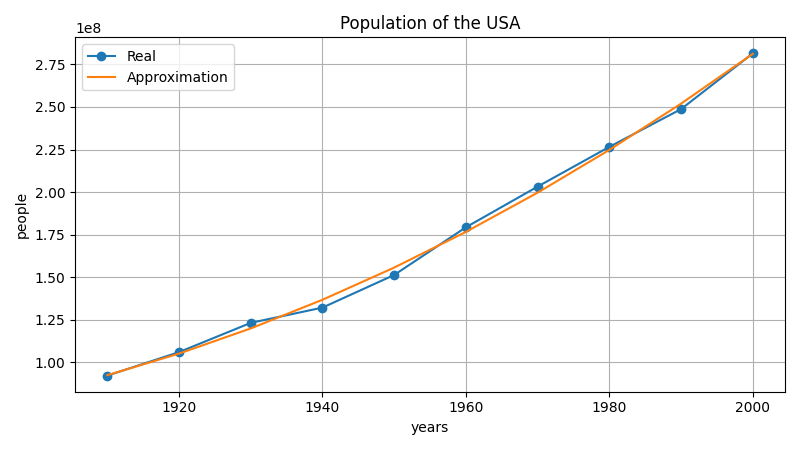
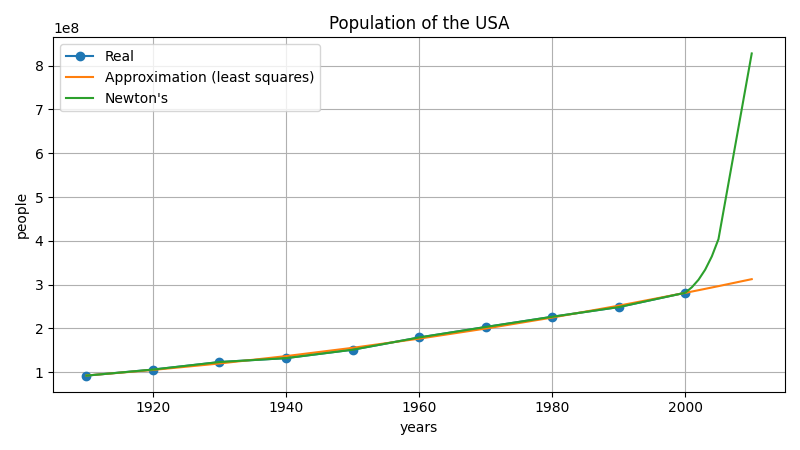
Lab4
Added new methods as spline and Newton's.

diff --git a/lab4/main.py b/lab4/main.py
@@ -1,13 +1,8 @@
 
 import matplotlib.pyplot as plt
 import numpy as np
-
-years = np.array([ 1910 + ind*10 for ind in range(0, 10)])
-stat = np.array([ 92228496, 106021537, 123202624, 
-         132164569, 151325798, 179323175,
-         203211926, 226545805, 248709873,
-         281421906 ])
-
+from newton import *
+from spline import *
 
 def summarize_degree(x, degree):
     sum = np.sum(x**degree)
@@ -21,7 +16,7 @@ def solve_equation(coeff: dict):
                   [coeff['y_2'], coeff['y_1'], coeff['y_0']]])
     f2 = np.array([coeff['yx_2'], coeff['yx'], coeff['y']])
     response = np.linalg.solve(f1, f2)
-    print(response)
+    # print(response)
     return response
 
 def create_system(years, stat):
@@ -35,27 +30,100 @@ def create_system(years, stat):
     y = np.sum(stat)
     return {'y_4':y_4, 'y_3':y_3, 'y_2':y_2, 'y_1':y_1, 'y_0':y_0, 'yx_2':yx_2, 'yx':yx, 'y':y}
 
-def create_plot(x, y, y1):
+def create_plot(country: str, x, y):
     plt.figure(figsize=(16/2,9/2))
     
-    plt.title('Population of the USA')
+    plt.title('Population of ' + country)
     plt.xlabel('years')
     plt.ylabel('people')
-    plt.plot(x, y, marker='o')
-    plt.plot(x, y1)
-    plt.legend(['Real', 'Approximation'])
+    
+    plt.plot(x[0], y[0], marker='o')
+    plt.plot(x[1], y[1])
+    plt.plot(x[2], y[2])
+    
+    plt.legend(['Real', 'Approximation (least squares)', "Newton's"])
     plt.grid()
     plt.tight_layout()
     
     plt.show()
 
+def spline_plot(country, years_ranges: list, stats_ranges: list, years, stats):
+    plt.figure(figsize=(16/2,9/2))
+    
+    plt.title('Population of ' + country)
+    plt.xlabel('years')
+    plt.ylabel('people')
+
+    plt.plot(years, stats, marker='o')
+    for ind in range(len(years_ranges)):
+        plt.plot(years_ranges[ind], stats_ranges[ind], linewidth=2, color='limegreen')
+    
+    plt.legend(['Real', 'Splines'])
+    plt.grid()
+    plt.tight_layout()
+    
+    plt.show()
+
+
 if __name__ == '__main__':
-    param = create_system(years, stat)
-    response = solve_equation(param)
-    response = list(response)
-    approximation = [response[0]*year**2 + response[1]*year + response[2] for year in years]
-    create_plot(years, stat, approximation)
-    print('in 2010:{}'.format(response[0]*2010**2 + response[1]*2010 + response[2]))
+    years_usa = np.array([ 1910 + ind*10 for ind in range(0, 10)])
+    stat_usa  = np.array([ 92228496, 106021537, 123202624, 
+                 132164569, 151325798, 179323175,
+                 203211926, 226545805, 248709873,
+                 281421906 ])
+
+
+    def main(years, stat, country):
+        param = create_system(years, stat)
+        response = solve_equation(param)
+        response = list(response)
+        scaled_years = list(years) + [2001, 2002, 2003, 2004, 2005, 2010]
+        approximation = [response[0]*year**2 + response[1]*year + response[2] for year in scaled_years]
+        spline_scaling = range(years_usa[-1], 2010, 1) 
+
+        print('By least squares in 2010: {}'.format(int(response[0]*2010**2 + response[1]*2010 + response[2])))
+        print("By Newton's in 2010: {}".format(int(calculate_polynomial(years, diff_table(years, stat), 2010))))
+
+        x = []; x.append(years); x.append(scaled_years); x.append(scaled_years)
+        y = []; y.append(stat); y.append(approximation); y.append([calculate_polynomial(years, diff_table(years, stat), y) for y in scaled_years])
+        
+        create_plot(country, x, y)
+        # create_plot(country, years, stat, scaled_years, approximation, scaled_years, [calculate_polynomial(years, diff_table(years, stat), y) for y in scaled_years])
+
+
+    def spline(years, stat, country):
+        b, c, d = cubic_spline(years, stat)
+        b = list(b)
+        c = list(c)
+        d = list(d)
+        years_ranges = []
+        stats_ranges = []
+
+        for ind in range(len(years) - 1):
+                ls = []
+                for y in range(years[ind], years[ind+1] + 1, 1):
+                    ls.append(stat[ind] + b[ind]*(y - years[ind]) + c[ind]*(y - years[ind])**2 + d[ind]*(y - years[ind])**3)
+                    years_ranges.append(range(years[ind], years[ind+1] + 1, 1))
+                    stats_ranges.append(ls)
+
+        scaling_point = years[-1]
+        years_ranges.append(list(range(scaling_point, 2011, 1)))
+
+        stats_ranges.append(
+            [stat[-1] + b[-1]*(y - scaling_point) + c[-1]*(y - scaling_point)**2 + d[-1]*(y - scaling_point)**3 
+            for y in range(scaling_point, 2011, 1)]
+        )
+
+        print('By spline in 2010: {}'.format(int(stats_ranges[-1][-1])))
+        spline_plot(country, years_ranges, stats_ranges, years, stat)
+
+
+    def start(years, stat, country):
+        main(years, stat, country)
+        spline(years, stat, country)
+    
+    start(years_usa, stat_usa, 'the USA')
+
 
     
 

diff --git a/lab4/spline.py b/lab4/spline.py
@@ -1,0 +1,86 @@
+
+import pandas as pd
+import numpy as np
+
+def jacobi(A, b, x0, tol, n_iterations=300):
+    """
+    Performs Jacobi iterations to solve the line system of
+    equations, Ax=b, starting from an initial guess, ``x0``.
+    
+    Returns:
+    x, the estimated solution
+    """
+    
+    n = A.shape[0]
+    x = x0.copy()
+    x_prev = x0.copy()
+    counter = 0
+    x_diff = tol+1
+    
+    while (x_diff > tol) and (counter < n_iterations): #iteration level
+        for i in range(0, n): #element wise level for x
+            s = 0
+            for j in range(0,n): #summation for i !=j
+                if i != j:
+                    s += A[i,j] * x_prev[j] 
+            
+            x[i] = (b[i] - s) / A[i,i]
+        #update values
+        counter += 1
+        x_diff = (np.sum((x-x_prev)**2))**0.5 
+        x_prev = x.copy() #use new x for next iteration
+        
+    
+    # print("Number of Iterations: ", counter)
+    # print("Norm of Difference: ", x_diff)
+    return x
+
+
+def cubic_spline(x, y, tol = 1e-100):
+    """
+    Interpolate using natural cubic splines.
+    
+    Generates a strictly diagonal dominant matrix then applies Jacobi's method.
+    
+    Returns coefficients:
+    b, coefficient of x of degree 1
+    c, coefficient of x of degree 2
+    d, coefficient of x of degree 3
+    """ 
+    x = np.array(x)
+    y = np.array(y)
+    ### check if sorted
+    if np.any(np.diff(x) < 0):
+        idx = np.argsort(x)
+        x = x[idx]
+        y = y[idx]
+
+    size = len(x)
+    delta_x = np.diff(x)
+    delta_y = np.diff(y)
+    
+    ### Get matrix A
+    A = np.zeros(shape = (size,size))
+    b = np.zeros(shape=(size,1))
+    A[0,0] = 1
+    A[-1,-1] = 1
+    
+    for i in range(1,size-1):
+        A[i, i-1] = delta_x[i-1]
+        A[i, i+1] = delta_x[i]
+        A[i,i] = 2*(delta_x[i-1]+delta_x[i])
+    ### Get matrix b
+        b[i,0] = 3*(delta_y[i]/delta_x[i] - delta_y[i-1]/delta_x[i-1])
+        
+    ### Solves for c in Ac = b
+    # print('Jacobi Method Output:')
+    c = jacobi(A, b, np.zeros(len(A)), tol = tol, n_iterations=1000)
+    
+    ### Solves for d and b
+    d = np.zeros(shape = (size-1,1))
+    b = np.zeros(shape = (size-1,1))
+    for i in range(0,len(d)):
+        d[i] = (c[i+1] - c[i]) / (3*delta_x[i])
+        b[i] = (delta_y[i]/delta_x[i]) - (delta_x[i]/3)*(2*c[i] + c[i+1])    
+    
+    return b.squeeze(), c.squeeze(), d.squeeze()

diff --git a/lab4/newton.py b/lab4/newton.py
@@ -1,0 +1,25 @@
+
+import matplotlib.pyplot as plt
+import numpy as np
+
+def diff_table(x_list: np.array, y_list: np.array):
+    table_size = len(y_list)
+    table = np.zeros([table_size, table_size])
+
+    table[0] = y_list
+    for i in range(1, table_size, 1):
+        for j in range(0, table_size - i, 1):
+            table[i][j] = (table[i - 1][j + 1] - table[i - 1][j]) / (x_list[j + i] - x_list[j])
+
+    return table
+
+def calculate_polynomial(x_list, matrix, x):
+    polynomial = 0 
+    for ind in range(len(x_list)):
+        sum = matrix[ind][0]
+        # print(sum)
+        for k in range(ind):
+            sum *= (x - x_list[k])
+        # print(sum)
+        polynomial += sum
+    return polynomial

diff --git a/lab4/README.md b/lab4/README.md
@@ -26,12 +26,20 @@ $$
 \end{cases}
 $$
 
-## Results
-| <!-- -->   | <!-- --> | <!-- -->  | <!-- -->  | <!-- -->  | <!-- -->  | <!-- -->  | <!-- -->  | <!-- -->  | <!-- -->  | <!-- -->  |
-| ---------- | -------- | --------- | --------- | --------- | --------- | --------- | --------- | --------- | --------- | --------- |
-| Population | 92228496 | 106021537 | 123202624 | 132164569 | 151325798 | 179323175 | 203211926 | 226545805 | 248709873 | 281421906 |
-| Years      | 1910     | 1920      | 1930      | 1940      | 1950      | 1960      | 1970      | 1980      | 1990      | 2000      |
+## The spline interpolation method
 
-Populatin in 2010 is 312 470 336 (approximately)
+[Wiki](https://en.wikipedia.org/wiki/Spline_interpolation)
+## Results
+| <!-- -->       | <!-- --> | <!-- -->  | <!-- -->  | <!-- -->  | <!-- -->  | <!-- -->  | <!-- -->  | <!-- -->  | <!-- -->  | <!-- -->  |
+| -------------- | -------- | --------- | --------- | --------- | --------- | --------- | --------- | --------- | --------- | --------- |
+| **Population** | 92228496 | 106021537 | 123202624 | 132164569 | 151325798 | 179323175 | 203211926 | 226545805 | 248709873 | 281421906 |
+| **Years**      | 1910     | 1920      | 1930      | 1940      | 1950      | 1960      | 1970      | 1980      | 1990      | 2000      |
+
+| Method        | Population in 2010 |
+| ------------- | ------------------ |
+| Least squares | 312 470 336        |
+| Newton's      | 827 906 509        |
+| Spline        | 305 348 893        |
 
 ![](../src/l4/Fig.png)
+![](../src/l4/FigureSpline.png)
